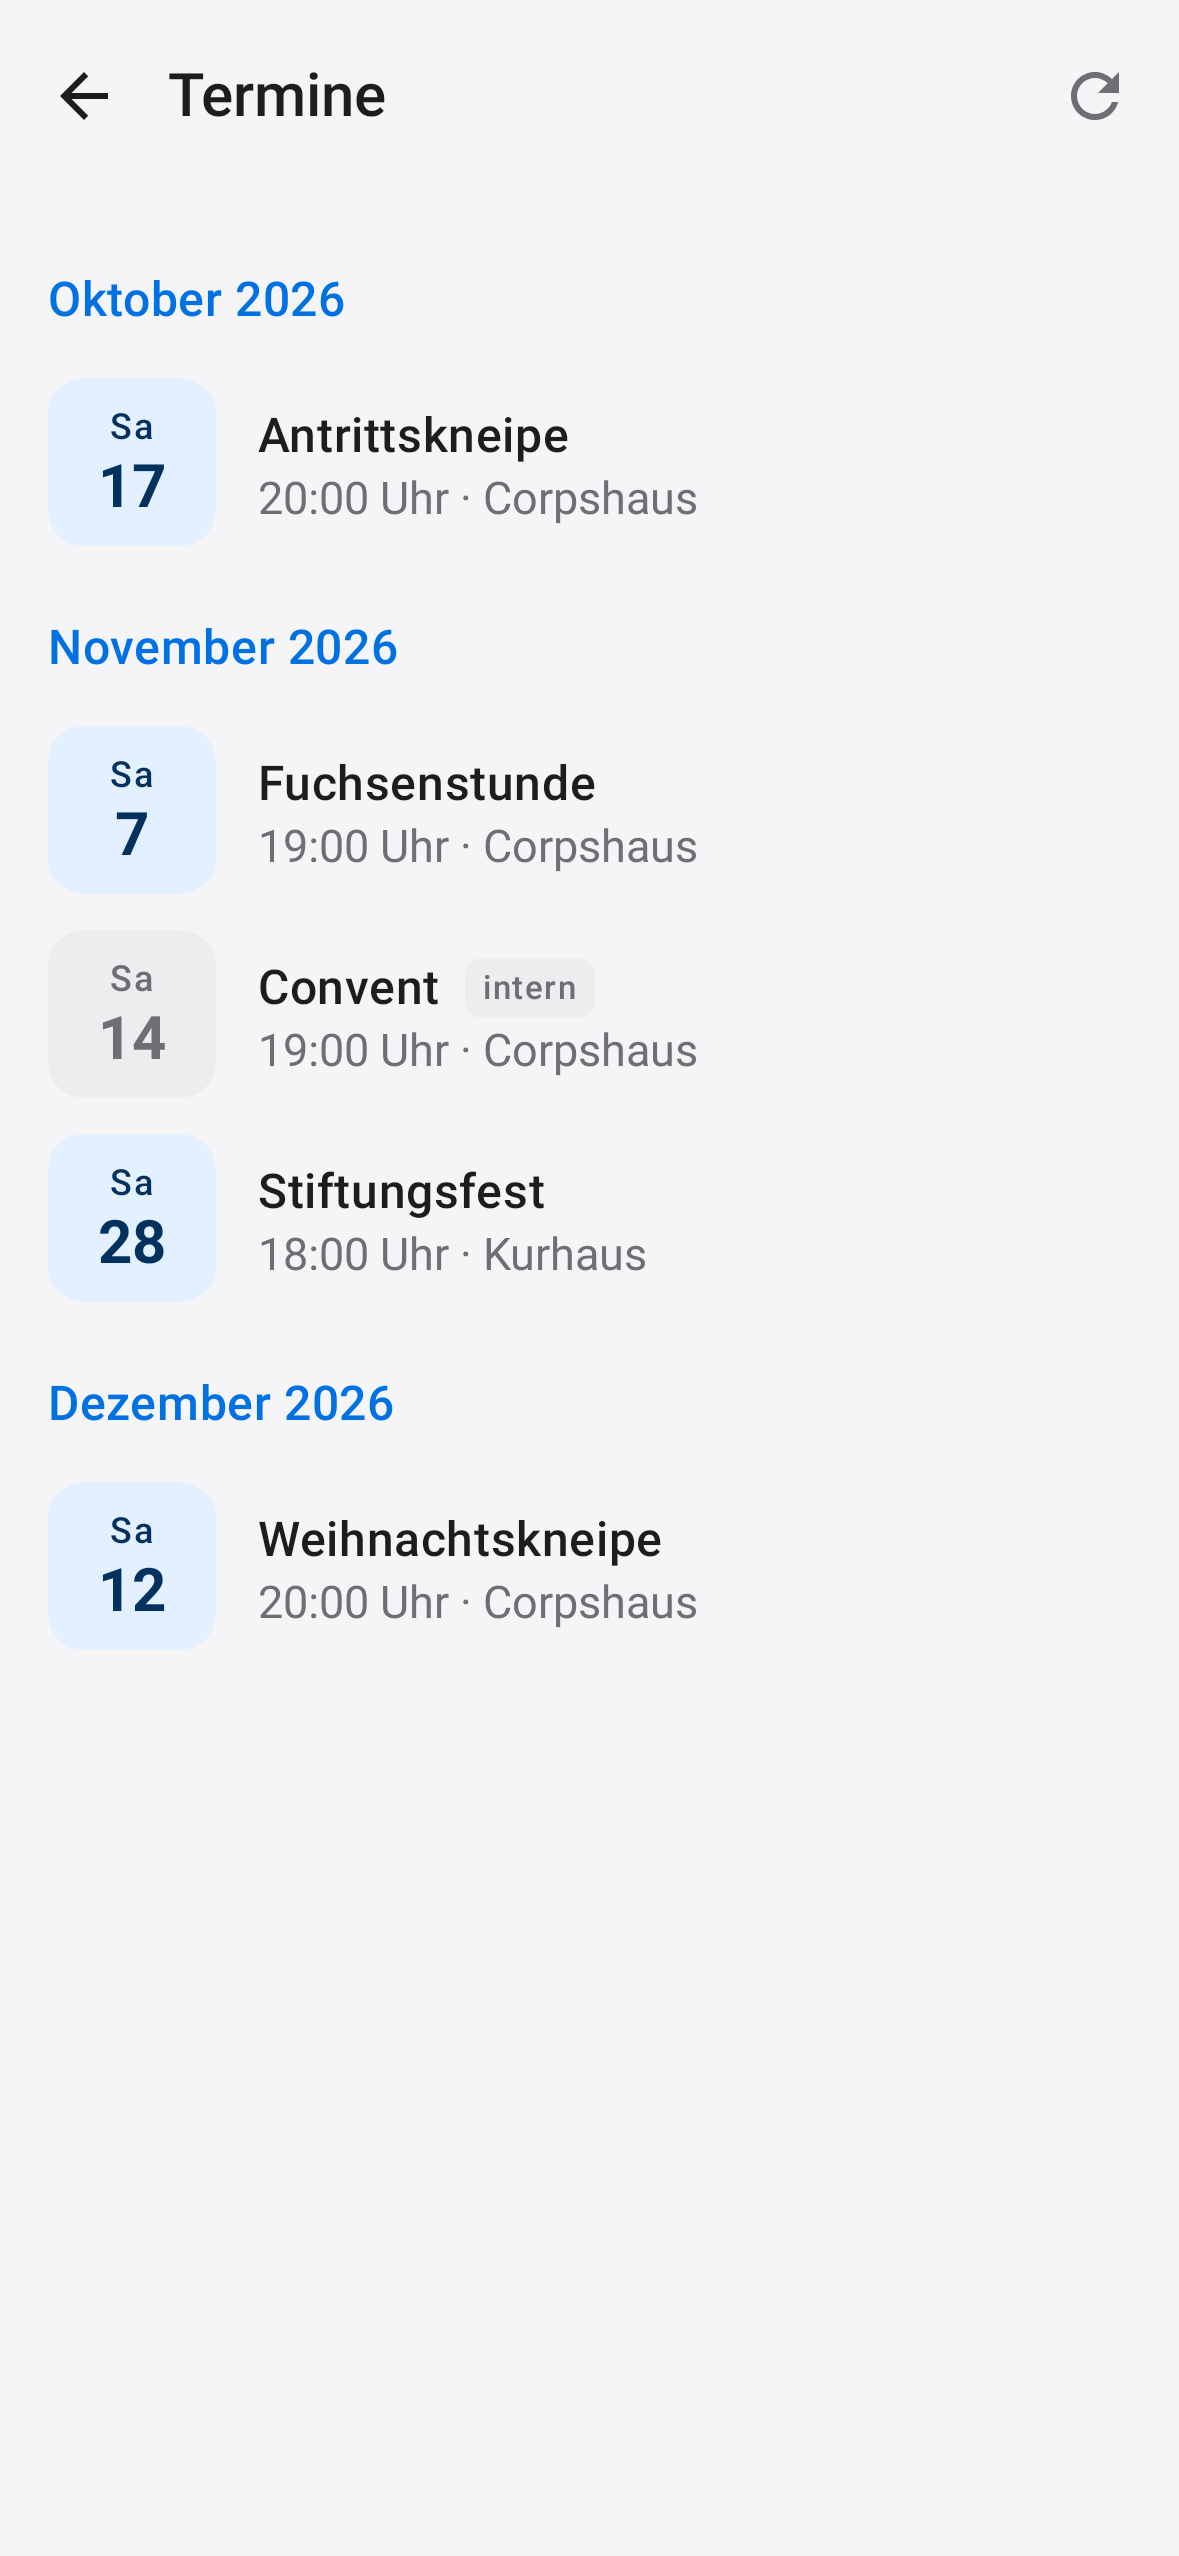
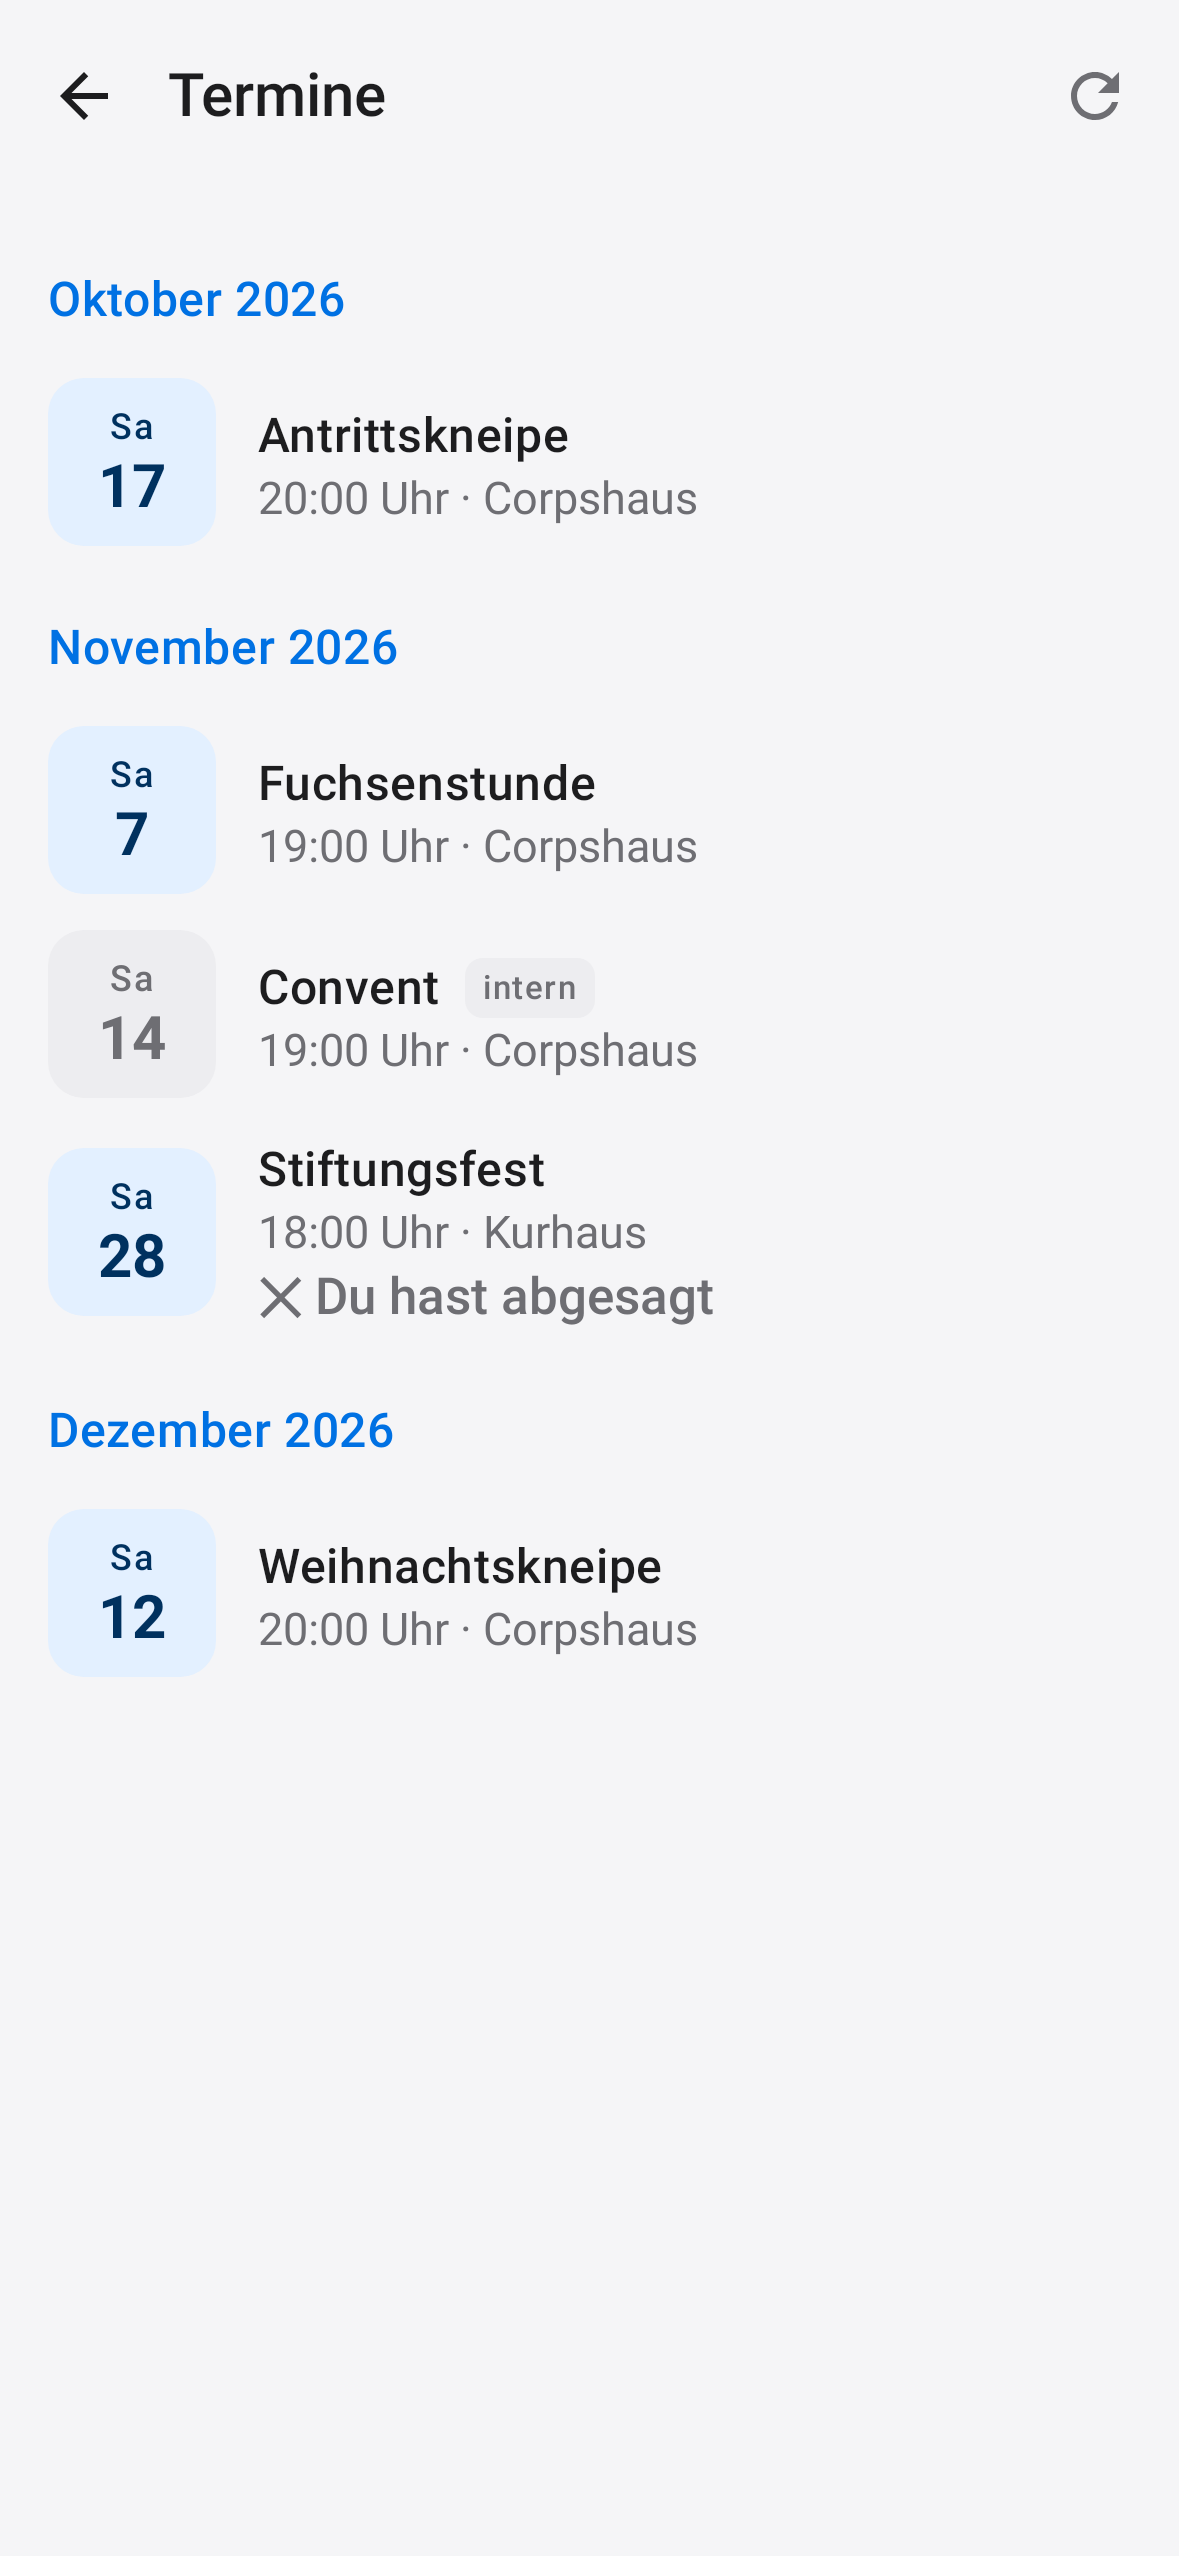
Apps: Zu-/Absagen zu Terminen (Android-Dialog, iOS Wischgesten/Kontextmenü), Status und Zahl der Zusagen
Claude-Session: https://claude.ai/code/session_013pBdEe3DoC3F33hqVsbrFP

Changed region(s): [[0.2137, 0.4327, 0.6107, 0.6491], [0.0305, 0.4636, 0.2137, 0.6491]]

diff --git a/apps/android/src/main/java/com/example/nova/android/ui/EventsScreen.kt b/apps/android/src/main/java/com/example/nova/android/ui/EventsScreen.kt
@@ -1,6 +1,7 @@
 package com.example.nova.android.ui
 
 import androidx.activity.compose.BackHandler
+import androidx.compose.foundation.clickable
 import androidx.compose.foundation.layout.Arrangement
 import androidx.compose.foundation.layout.Box
 import androidx.compose.foundation.layout.Column
@@ -18,7 +19,9 @@ import androidx.compose.material.icons.Icons
 import androidx.compose.material.icons.automirrored.filled.ArrowBack
 import androidx.compose.material.icons.filled.EventBusy
 import androidx.compose.material.icons.filled.Refresh
+import androidx.compose.material3.AlertDialog
 import androidx.compose.material3.ExperimentalMaterial3Api
+import androidx.compose.material3.TextButton
 import androidx.compose.material3.Icon
 import androidx.compose.material3.IconButton
 import androidx.compose.material3.LinearProgressIndicator
@@ -32,6 +35,9 @@ import androidx.compose.runtime.Composable
 import androidx.compose.runtime.LaunchedEffect
 import androidx.compose.runtime.collectAsState
 import androidx.compose.runtime.getValue
+import androidx.compose.runtime.mutableStateOf
+import androidx.compose.runtime.remember
+import androidx.compose.runtime.setValue
 import androidx.compose.ui.Alignment
 import androidx.compose.ui.Modifier
 import androidx.compose.ui.platform.LocalContext
@@ -57,6 +63,7 @@ fun EventsScreen(nova: NovaApp, onClose: () -> Unit) {
     val t = LocalTexts.current
     val state by nova.events.state.collectAsState()
     val context = LocalContext.current
+    var selected by remember { mutableStateOf<EventDto?>(null) }
     LaunchedEffect(Unit) { nova.events.refresh() }
     BackHandler { onClose() }
 
@@ -93,19 +100,24 @@ fun EventsScreen(nova: NovaApp, onClose: () -> Unit) {
                             item(key = month) {
                                 Text(month.replaceFirstChar { it.uppercase() }, style = MaterialTheme.typography.titleMedium, color = MaterialTheme.colorScheme.primary, modifier = Modifier.padding(top = 16.dp, bottom = 8.dp))
                             }
-                            items(events, key = { it.id }) { EventRow(it, t("events.internal"), t("events.allDay")) }
+                            items(events, key = { it.id }) { event -> EventRow(event, t, onClick = { selected = event }) }
                         }
                     }
                 }
             }
         }
     }
+    selected?.let { event ->
+        RsvpDialog(event, t, onAnswer = { status, guests -> nova.events.rsvp(event, status, guests); selected = null }, onDismiss = { selected = null })
+    }
 }
 
 @Composable
-private fun EventRow(event: EventDto, internalLabel: String, allDayLabel: String) {
+private fun EventRow(event: EventDto, t: Texts, onClick: () -> Unit) {
+    val internalLabel = t("events.internal")
+    val allDayLabel = t("events.allDay")
     val start = Instant.parse(event.start).atZone(ZONE)
-    Row(Modifier.fillMaxWidth().padding(vertical = 6.dp), verticalAlignment = Alignment.CenterVertically) {
+    Row(Modifier.fillMaxWidth().clickable(onClick = onClick).padding(vertical = 6.dp), verticalAlignment = Alignment.CenterVertically) {
         Surface(color = if (event.isInternal) MaterialTheme.colorScheme.surfaceVariant else MaterialTheme.colorScheme.primaryContainer, shape = RoundedCornerShape(12.dp), modifier = Modifier.size(56.dp)) {
             Column(horizontalAlignment = Alignment.CenterHorizontally, verticalArrangement = Arrangement.Center) {
                 Text(start.format(WEEKDAY).trimEnd('.'), style = MaterialTheme.typography.labelMedium)
@@ -125,6 +137,37 @@ private fun EventRow(event: EventDto, internalLabel: String, allDayLabel: String
             }
             val time = if (event.allDay) allDayLabel else start.format(TIME) + " Uhr"
             Text(listOfNotNull(time, event.location).joinToString(" · "), style = MaterialTheme.typography.bodyMedium, color = MaterialTheme.colorScheme.onSurfaceVariant)
+            rsvpLine(event, t)?.let { (text, color) -> Text(text, style = MaterialTheme.typography.labelLarge, color = color) }
         }
     }
+}
+
+@Composable
+private fun rsvpLine(event: EventDto, t: Texts): Pair<String, androidx.compose.ui.graphics.Color>? {
+    val count = if (event.attending > 0) " · " + t("events.rsvp.attending", "count" to event.attending.toString()) else ""
+    return when (event.myRsvp) {
+        "yes" -> "✓ " + t("events.rsvp.statusYes") + count to MaterialTheme.colorScheme.primary
+        "maybe" -> "? " + t("events.rsvp.statusMaybe") + count to MaterialTheme.colorScheme.onSurfaceVariant
+        "no" -> "✕ " + t("events.rsvp.statusNo") + count to MaterialTheme.colorScheme.onSurfaceVariant
+        else -> if (count.isNotEmpty()) count.removePrefix(" · ") to MaterialTheme.colorScheme.onSurfaceVariant else null
+    }
+}
+
+@Composable
+private fun RsvpDialog(event: EventDto, t: Texts, onAnswer: (status: String, guests: Int) -> Unit, onDismiss: () -> Unit) {
+    AlertDialog(
+        onDismissRequest = onDismiss,
+        title = { Text(event.title) },
+        text = {
+            Column(verticalArrangement = Arrangement.spacedBy(8.dp)) {
+                if (event.attending > 0) Text(t("events.rsvp.attending", "count" to event.attending.toString()), color = MaterialTheme.colorScheme.onSurfaceVariant)
+                PrimaryButton(t("events.rsvp.yes"), onClick = { onAnswer("yes", 0) })
+                SecondaryButton(t("events.rsvp.guest"), onClick = { onAnswer("yes", 1) })
+                SecondaryButton(t("events.rsvp.maybe"), onClick = { onAnswer("maybe", 0) })
+                QuietButton(t("events.rsvp.no"), onClick = { onAnswer("no", 0) })
+            }
+        },
+        confirmButton = {},
+        dismissButton = { TextButton(onClick = onDismiss) { Text(t("files.cancel")) } },
+    )
 }

diff --git a/apps/ios/Nova/Views/EventsView.swift b/apps/ios/Nova/Views/EventsView.swift
@@ -50,7 +50,16 @@ struct EventsView: View {
             List {
                 ForEach(months, id: \.0) { month, events in
                     Section(month) {
-                        ForEach(events, id: \.id) { row($0) }
+                        ForEach(events, id: \.id) { event in
+                            row(event)
+                                .contextMenu { rsvpButtons(event) }
+                                .swipeActions(edge: .leading) {
+                                    Button(model.t("events.rsvp.yes")) { model.nova.events.rsvp(event: event, status: "yes", guests: 0) }.tint(.green)
+                                }
+                                .swipeActions(edge: .trailing) {
+                                    Button(model.t("events.rsvp.no")) { model.nova.events.rsvp(event: event, status: "no", guests: 0) }.tint(.gray)
+                                }
+                        }
                     }
                 }
             }
@@ -91,8 +100,31 @@ struct EventsView: View {
                 Text([event.allDay ? model.t("events.allDay") : Self.time.string(from: start) + " Uhr", event.location]
                     .compactMap { $0 }.joined(separator: " · "))
                     .font(.subheadline).foregroundStyle(.secondary)
+                if let line = rsvpLine(event) {
+                    Text(line).font(.subheadline.weight(.semibold))
+                        .foregroundStyle(event.myRsvp == "yes" ? Color.brand : .secondary)
+                }
             }
         }
+    }
+
+    @ViewBuilder private func rsvpButtons(_ event: EventDto) -> some View {
+        Button { model.nova.events.rsvp(event: event, status: "yes", guests: 0) } label: { Label(model.t("events.rsvp.yes"), systemImage: "checkmark.circle") }
+        Button { model.nova.events.rsvp(event: event, status: "yes", guests: 1) } label: { Label(model.t("events.rsvp.guest"), systemImage: "person.2") }
+        Button { model.nova.events.rsvp(event: event, status: "maybe", guests: 0) } label: { Label(model.t("events.rsvp.maybe"), systemImage: "questionmark.circle") }
+        Button(role: .destructive) { model.nova.events.rsvp(event: event, status: "no", guests: 0) } label: { Label(model.t("events.rsvp.no"), systemImage: "xmark.circle") }
+    }
+
+    private func rsvpLine(_ event: EventDto) -> String? {
+        let count = event.attending > 0 ? model.t("events.rsvp.attending", ["count": "\(event.attending)"]) : nil
+        let status: String? = switch event.myRsvp {
+        case "yes": "✓ " + model.t("events.rsvp.statusYes")
+        case "maybe": "? " + model.t("events.rsvp.statusMaybe")
+        case "no": "✕ " + model.t("events.rsvp.statusNo")
+        default: nil
+        }
+        let parts = [status, count].compactMap { $0 }
+        return parts.isEmpty ? nil : parts.joined(separator: " · ")
     }
 
     private func date(_ event: EventDto) -> Date {

diff --git a/apps/android/src/test/java/com/example/nova/android/CentralLoginTest.kt b/apps/android/src/test/java/com/example/nova/android/CentralLoginTest.kt
@@ -145,6 +145,14 @@ class CentralLoginTest {
         waitForText("Stiftungsfest")
         waitForText("intern")
         shot("26-termine")
+        compose.onNodeWithText("Stiftungsfest").performClick()
+        waitForText("Mit Begleitung")
+        shot("27-zusage-dialog")
+        compose.onNodeWithText("Mit Begleitung").performClick()
+        waitForText("Du hast zugesagt")
+        shot("28-zugesagt")
+        runBlocking { nova.api.rsvp(nova.events.state.value.events.first { it.title == "Stiftungsfest" }.id, "no", 0) }
+        nova.events.refresh()
         compose.onNodeWithContentDescription("Zurück").performClick()
         compose.waitUntil(10_000) { compose.onAllNodesWithContentDescription("Menü").fetchSemanticsNodes().isNotEmpty() }
         compose.onNodeWithContentDescription("Menü").performClick()

diff --git a/shared/src/commonMain/kotlin/com/example/nova/shared/events/EventsController.kt b/shared/src/commonMain/kotlin/com/example/nova/shared/events/EventsController.kt
@@ -37,4 +37,18 @@ class EventsController(private val api: NovaApi, private val scope: CoroutineSco
             }
         }
     }
+
+    /** Zu-/Absage: yes | no | maybe, [guests] Begleitpersonen (nur bei Zusage). */
+    fun rsvp(event: EventDto, status: String, guests: Int = 0) {
+        scope.launch {
+            try {
+                val updated = api.rsvp(event.id, status, guests)
+                _state.update { s -> s.copy(events = s.events.map { if (it.id == updated.id) updated else it }, error = null) }
+            } catch (e: NovaApiException) {
+                _state.update { it.copy(error = e.message) }
+            } catch (e: Exception) {
+                _state.update { it.copy(error = "Keine Verbindung. Bitte versuch es erneut.") }
+            }
+        }
+    }
 }

diff --git a/shared/src/commonMain/kotlin/com/example/nova/shared/api/Models.kt b/shared/src/commonMain/kotlin/com/example/nova/shared/api/Models.kt
@@ -205,4 +205,11 @@ data class EventDto(
     val calendar: String = "",
     /** Nur für Mitglieder – erscheint nicht auf der Website. („internal“ ist in Swift ein Schlüsselwort.) */
     @SerialName("internal") val isInternal: Boolean = false,
+    /** Eigene Antwort: yes | no | maybe | null. */
+    val myRsvp: String? = null,
+    /** Zusagen inkl. Begleitung. */
+    val attending: Int = 0,
 )
+
+@Serializable
+data class RsvpRequest(val status: String, val guests: Int = 0)

diff --git a/shared/src/commonMain/kotlin/com/example/nova/shared/api/NovaApi.kt b/shared/src/commonMain/kotlin/com/example/nova/shared/api/NovaApi.kt
@@ -162,6 +162,10 @@ class NovaApi(
     @Throws(Exception::class)
     suspend fun events(days: Int = 180): List<EventDto> = send(HttpMethod.Get, "/v1/events?days=$days")
 
+    @Throws(Exception::class)
+    suspend fun rsvp(eventId: String, status: String, guests: Int): EventDto =
+        send(HttpMethod.Put, "/v1/events/rsvp?id=${eventId.encodeURLParameter()}", enc(RsvpRequest(status, guests)))
+
     // ---------- Dateien (Chattia-Cloud) ----------
 
     @Throws(Exception::class)

diff --git a/docs/plan/corps-chattia.md b/docs/plan/corps-chattia.md
@@ -47,7 +47,10 @@ Textdokumente (`.md`, `.txt`) aus den Ordnern in `KNOWLEDGE_FOLDERS` werden **mi
 - ✅ Die **Website zeigt die öffentlichen Termine automatisch** (Shortcode `[chattia_termine]`, Plugin [`chattia-termine.php`](../../infra/hosting/wordpress/mu-plugins/chattia-termine.php)). Interne Termine (Klassifizierung *privat*/*vertraulich*, z. B. Convente) erscheinen weder im Abo-Link noch auf der Website. Gepflegt wird nur noch an einer Stelle.
 - ✅ Zweiter Kalender **„Semesterprogramm intern“** (Convente, Interna) nur für Mitglieder, ohne öffentlichen Link. (Nextcloud blendet als *privat* markierte Termine auch für Mitglieder aus, deshalb zwei Kalender.)
 - ✅ **Termine in der App** (`GET /v1/events`): beide Kalender mit den Rechten des Mitglieds, interne Termine markiert, Serientermine werden vom Server aufgelöst.
-- Offen: Kalender „Hausbelegung“, Anmeldung zu Veranstaltungen, Erinnerung per Push.
+- ✅ **Zu- und Absagen** in der App (auch „mit Begleitung“), Zahl der Zusagen am Termin. Die Teilnehmerliste sehen nur Chargen und AHV-Vorstand (`GET /v1/events/rsvps`), etwa für die Planung von Essen und Plätzen.
+- Offen: Kalender „Hausbelegung“, Erinnerung per Push, Export der Teilnehmerliste.
+
+![Zusage in der App](../screenshots/android/28-zugesagt.png)
 
 ![Termine in der App](../screenshots/android/26-termine.png)
 
